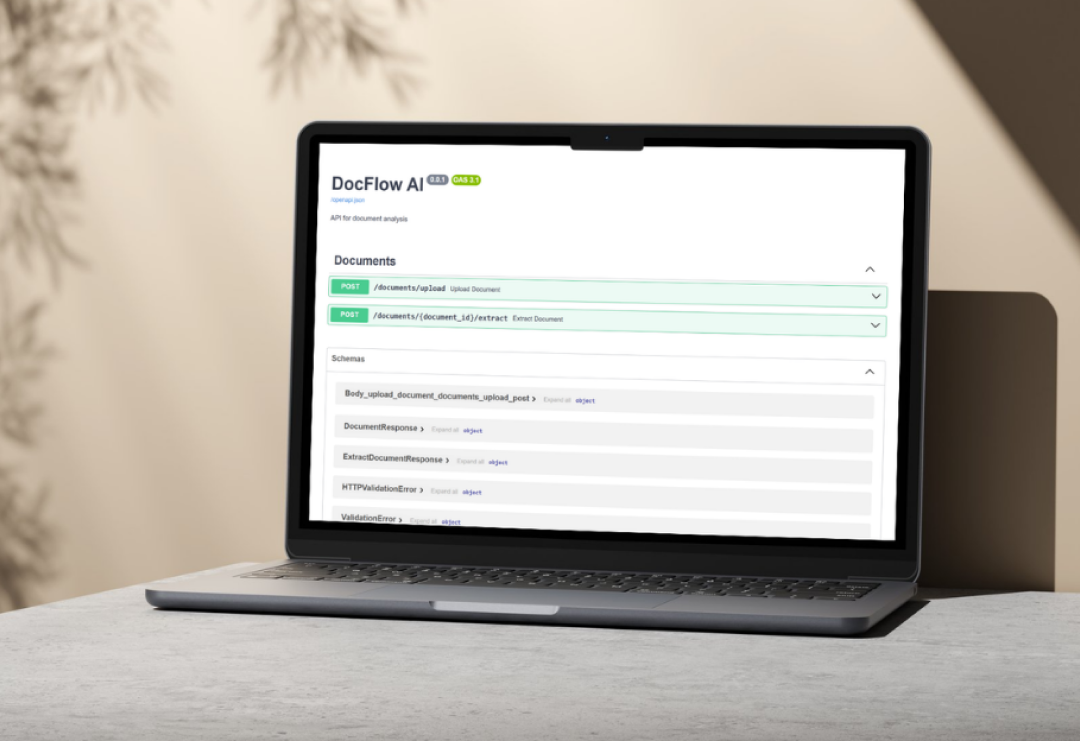
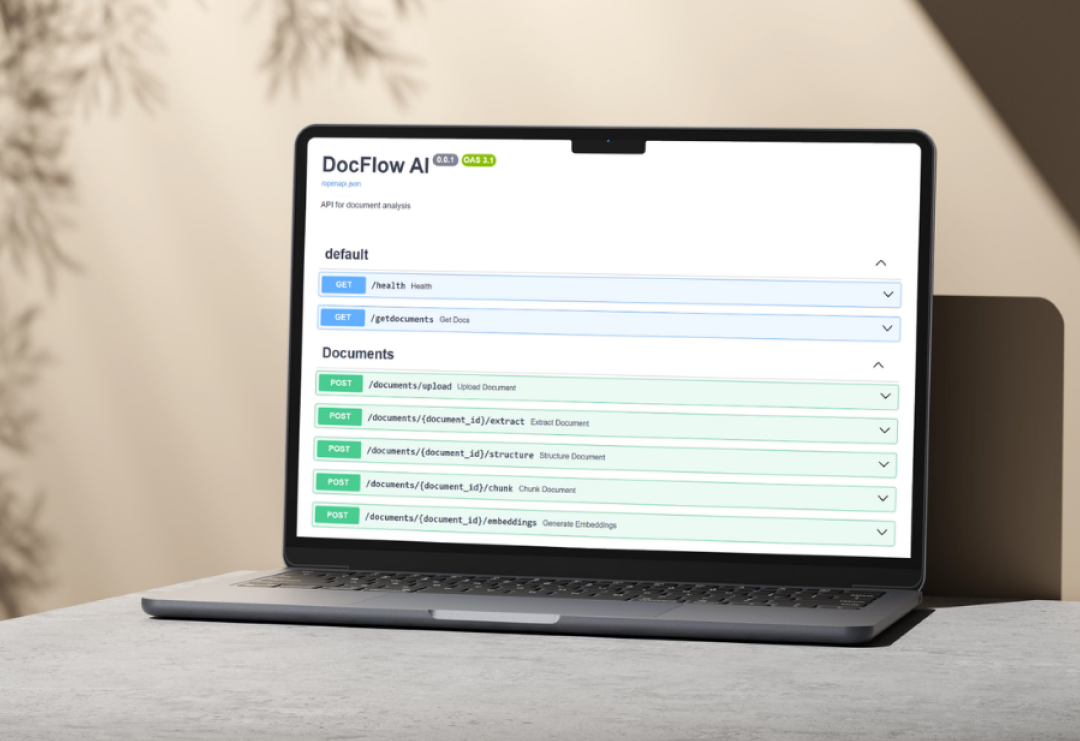
style: adjust image docflow-ai and project descriptions

diff --git a/src/data/projects.ts b/src/data/projects.ts
@@ -5,125 +5,80 @@ import github_project_card from "@/assets/projects/gihub-project-cards.webp"
 import docflow from "@/assets/projects/docflow-ai.webp"
 
 export const projects = [
-     {
+    {
         image: docflow,
-
         title: "DocFlow AI",
-
         inDevelopment: true,
-
         description: `
-Plataforma backend para análise e extração de texto de documentos utilizando OCR, parsing de PDFs, imagens e arquivos DOCX, com foco em APIs modernas e arquitetura escalável.
-
-Desenvolvido com FastAPI, PostgreSQL, Docker e CI/CD automatizado com GitHub Actions.
+Plataforma backend para análise e extração de texto (OCR/Parsing) de PDFs, imagens e arquivos DOCX. Utiliza IA e RAG para viabilizar a geração futura de insights, planos de aula e atividades automatizadas.
 `,
-
         techs: [
             "FastAPI",
             "Docker",
             "PostgreSQL",
         ],
-
         category: "Backend",
-
-        deployUrl:
-            "https://docflow-ai-lj3a.onrender.com/",
-
-        repoUrl:
-            "https://github.com/matheusconaga/docflow-ai",
-
-        
+        deployUrl: "https://docflow-ai-lj3a.onrender.com/",
+        repoUrl: "https://github.com/matheusconaga/docflow-ai",
     },
     {
         image: github_project_card,
-
         title: "GitHub Project Cards",
-
         description: `
-Projeto open source que gera cards dinâmicos de repositórios utilizando a API oficial do GitHub.
-
-Permite criar previews visuais automáticos exibindo estrelas, forks e tecnologias utilizadas para portfólios e READMEs.
+Projeto open source que gera cards dinâmicos de repositórios utilizando a API oficial do GitHub. Permite criar previews visuais automáticos exibindo estrelas, forks e tecnologias utilizadas para portfólios e READMEs.
 `,
-
         techs: [
             "Next.js",
             "React",
             "Open Source",
         ],
-
         category: "Frontend",
-
         deployUrl: "https://github-project-cards.vercel.app/preview",
-
         repoUrl: "https://github.com/matheusconaga/github-project-cards",
     },
     {
         image: portfolio,
         title: "Portifólio Profissional",
-
         description: `
-  Portfólio moderno e responsivo desenvolvido com React, TypeScript e TailwindCSS, utilizando Framer Motion para animações fluidas, arquitetura componentizada e foco em performance, UI/UX e experiência visual moderna.
+Portfólio moderno e responsivo desenvolvido com React, TypeScript e TailwindCSS, utilizando Framer Motion para animações fluidas, arquitetura componentizada e foco em performance, UI/UX e experiência visual moderna.
 `,
         techs: [
             "React",
             "Tailwind",
             "StyledCo",
         ],
-
         category: "Frontend",
-
-        deployUrl:
-            "https://portifoliomatheuslula.onrender.com/",
-
-        repoUrl:
-            "https://github.com/matheusconaga/portifollio",
+        deployUrl: "https://portifoliomatheuslula.onrender.com/",
+        repoUrl: "https://github.com/matheusconaga/portifollio",
     },
     {
         image: println,
         title: "PrintLn",
         description: `
-      Rede social mobile fullstack com feed dinâmico, autenticação segura, posts com imagens, comentários, geolocalização e foco em performance, UX e arquitetura escalável.
-
-    `,
-
+Rede social mobile fullstack com feed dinâmico, autenticação segura, posts com imagens, comentários, geolocalização e foco em performance, UX e arquitetura escalável.
+`,
         techs: [
             "Flutter",
             "Firebase",
             "FastAPI",
         ],
-
         category: "Mobile",
-
-        deployUrl:
-            "https://println-social.vercel.app/",
-
-        repoUrl:
-            "https://github.com/matheusconaga/projeto-println",
+        deployUrl: "https://println-social.vercel.app/",
+        repoUrl: "https://github.com/matheusconaga/projeto-println",
     },
-
     {
         image: patrimoniario,
-
         title: "Patrimoniário",
-
         description: `
-      Sistema web de gestão patrimonial com dashboards em tempo real, controle de ativos, QR Code, importação via Excel, relatórios em PDF e foco em performance, escalabilidade e usabilidade.
-
-    `,
-
+Sistema web de gestão patrimonial com dashboards em tempo real, controle de ativos, QR Code, importação via Excel, relatórios em PDF e foco em performance, escalabilidade e usabilidade.
+`,
         techs: [
             "React",
             "FastAPI",
             "PostgreSQL",
         ],
-
         category: "Frontend",
-        deployUrl:
-            "https://projeto-patrimoniario.onrender.com/",
-
-        repoUrl:
-            "https://github.com/matheusconaga/projeto_patrimoniario",
+        deployUrl: "https://projeto-patrimoniario.onrender.com/",
+        repoUrl: "https://github.com/matheusconaga/projeto_patrimoniario",
     },
-
-    
 ]